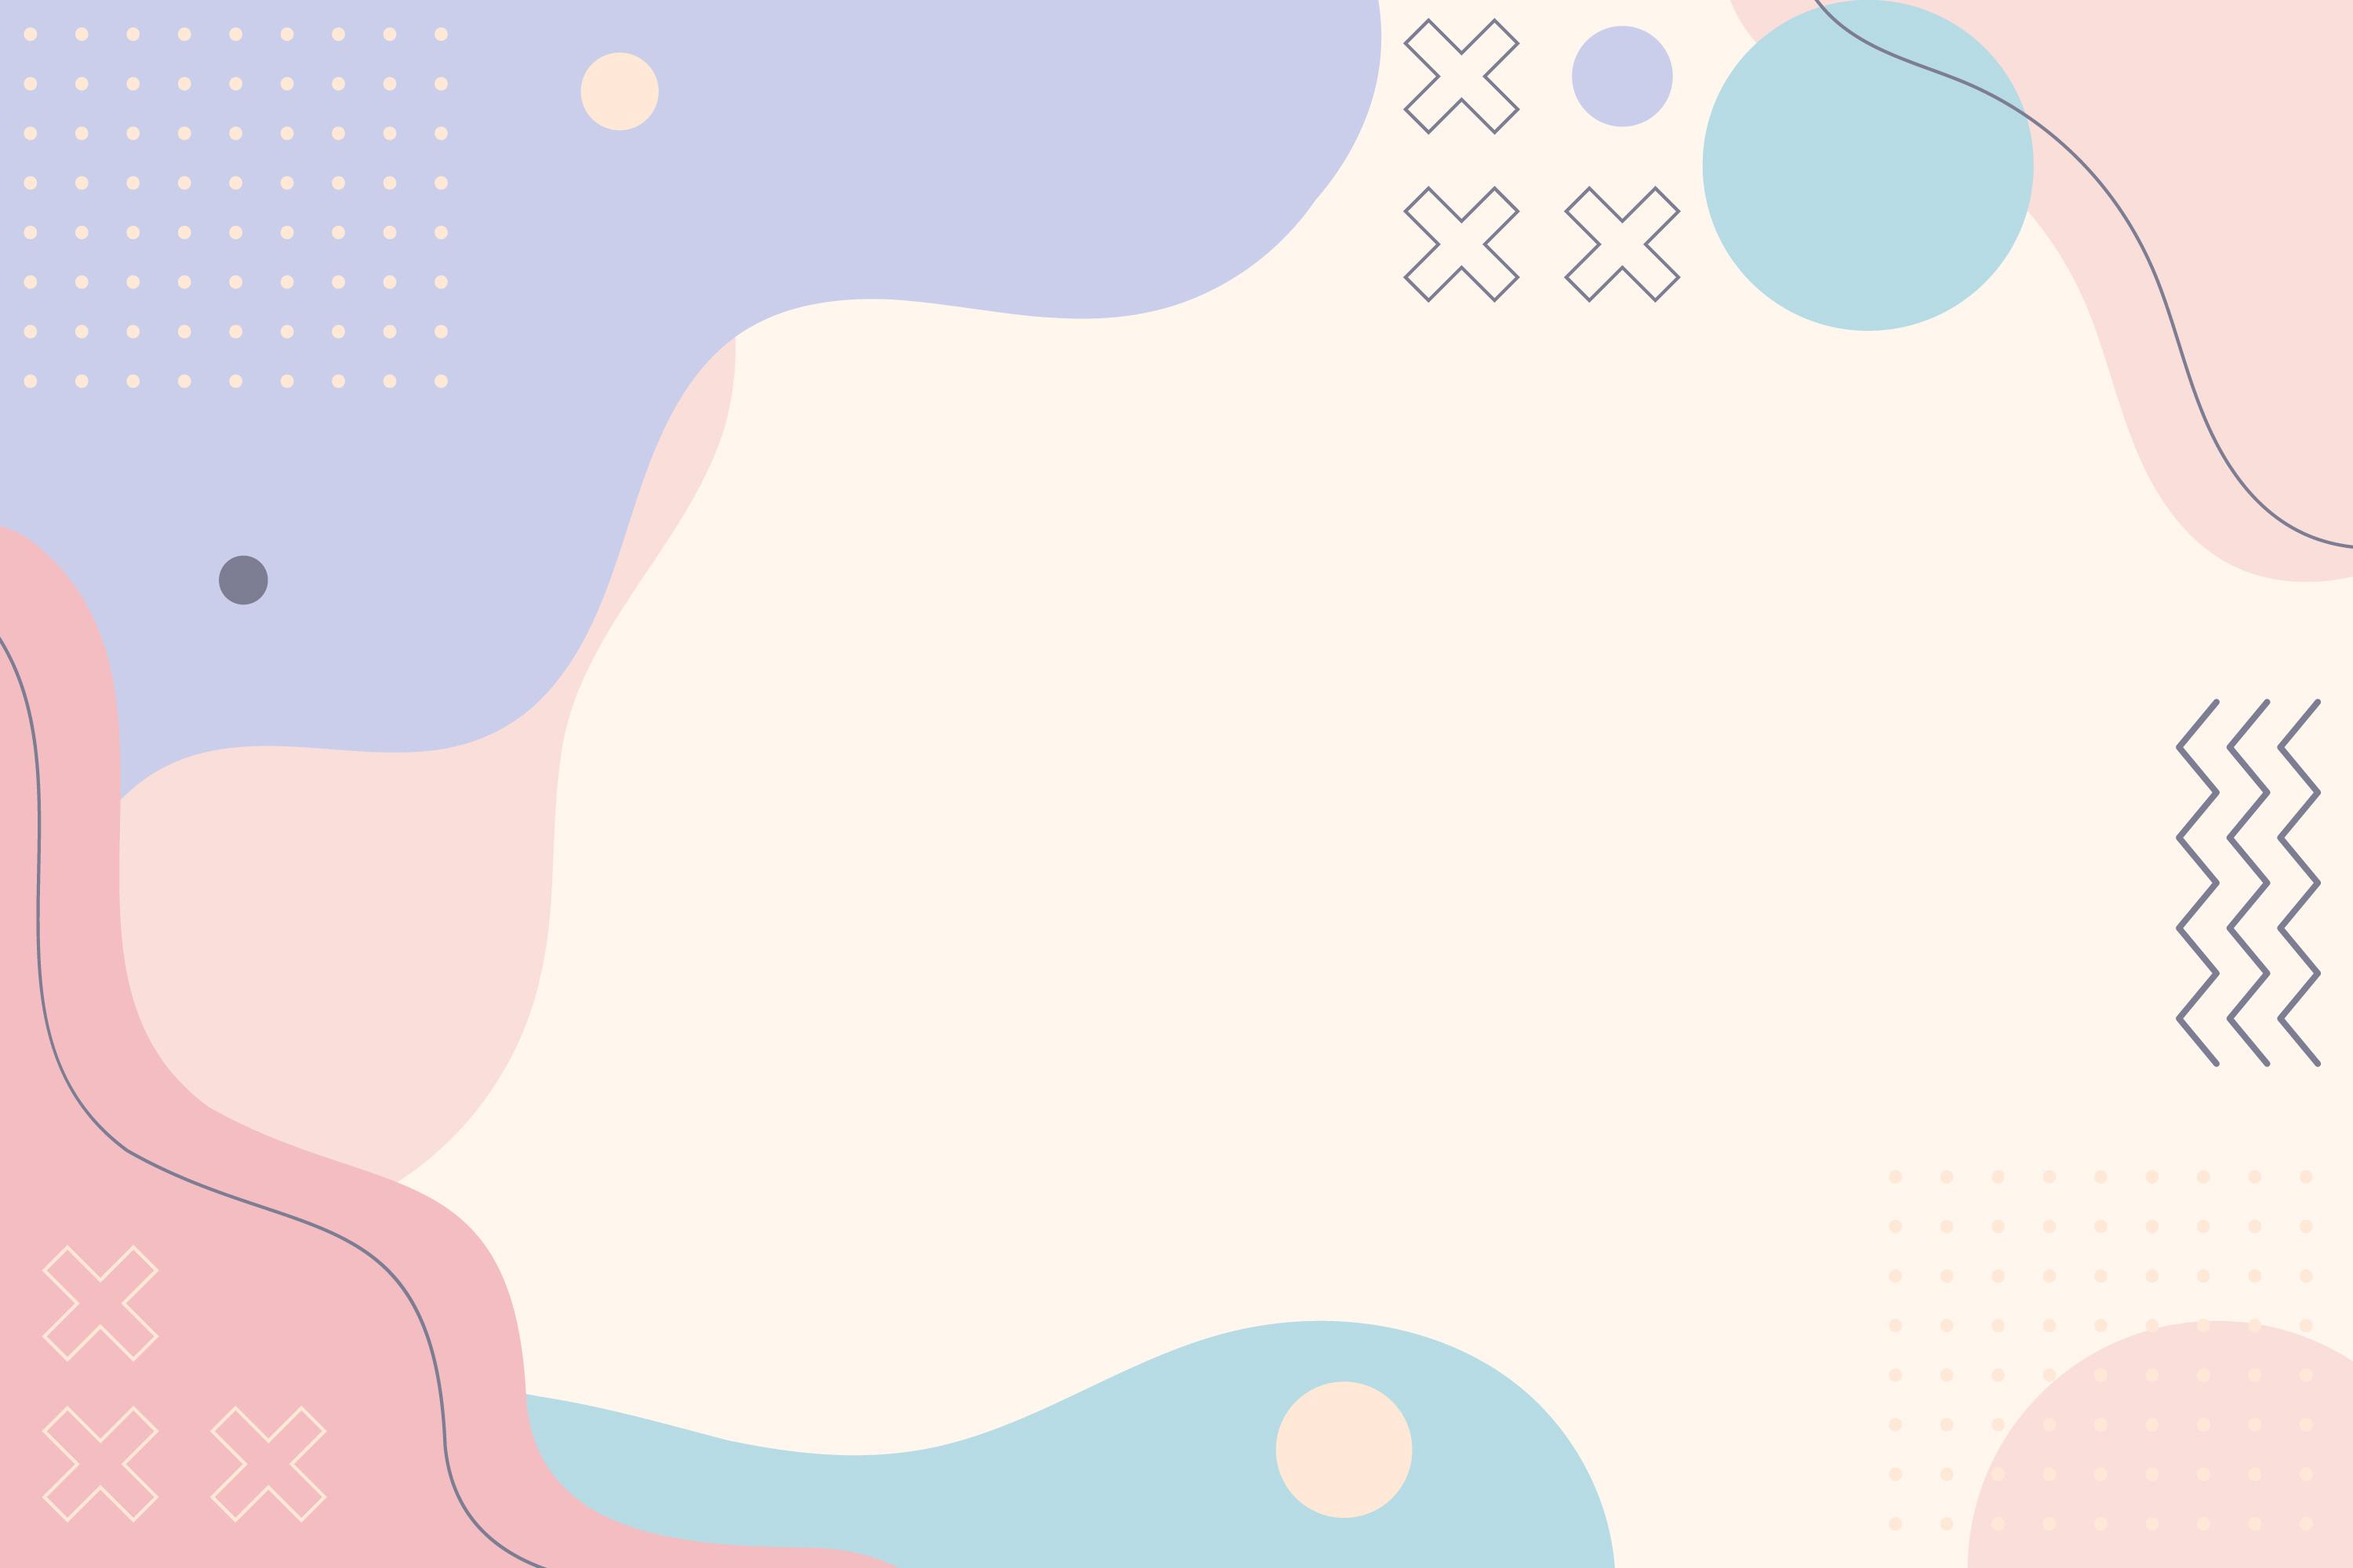
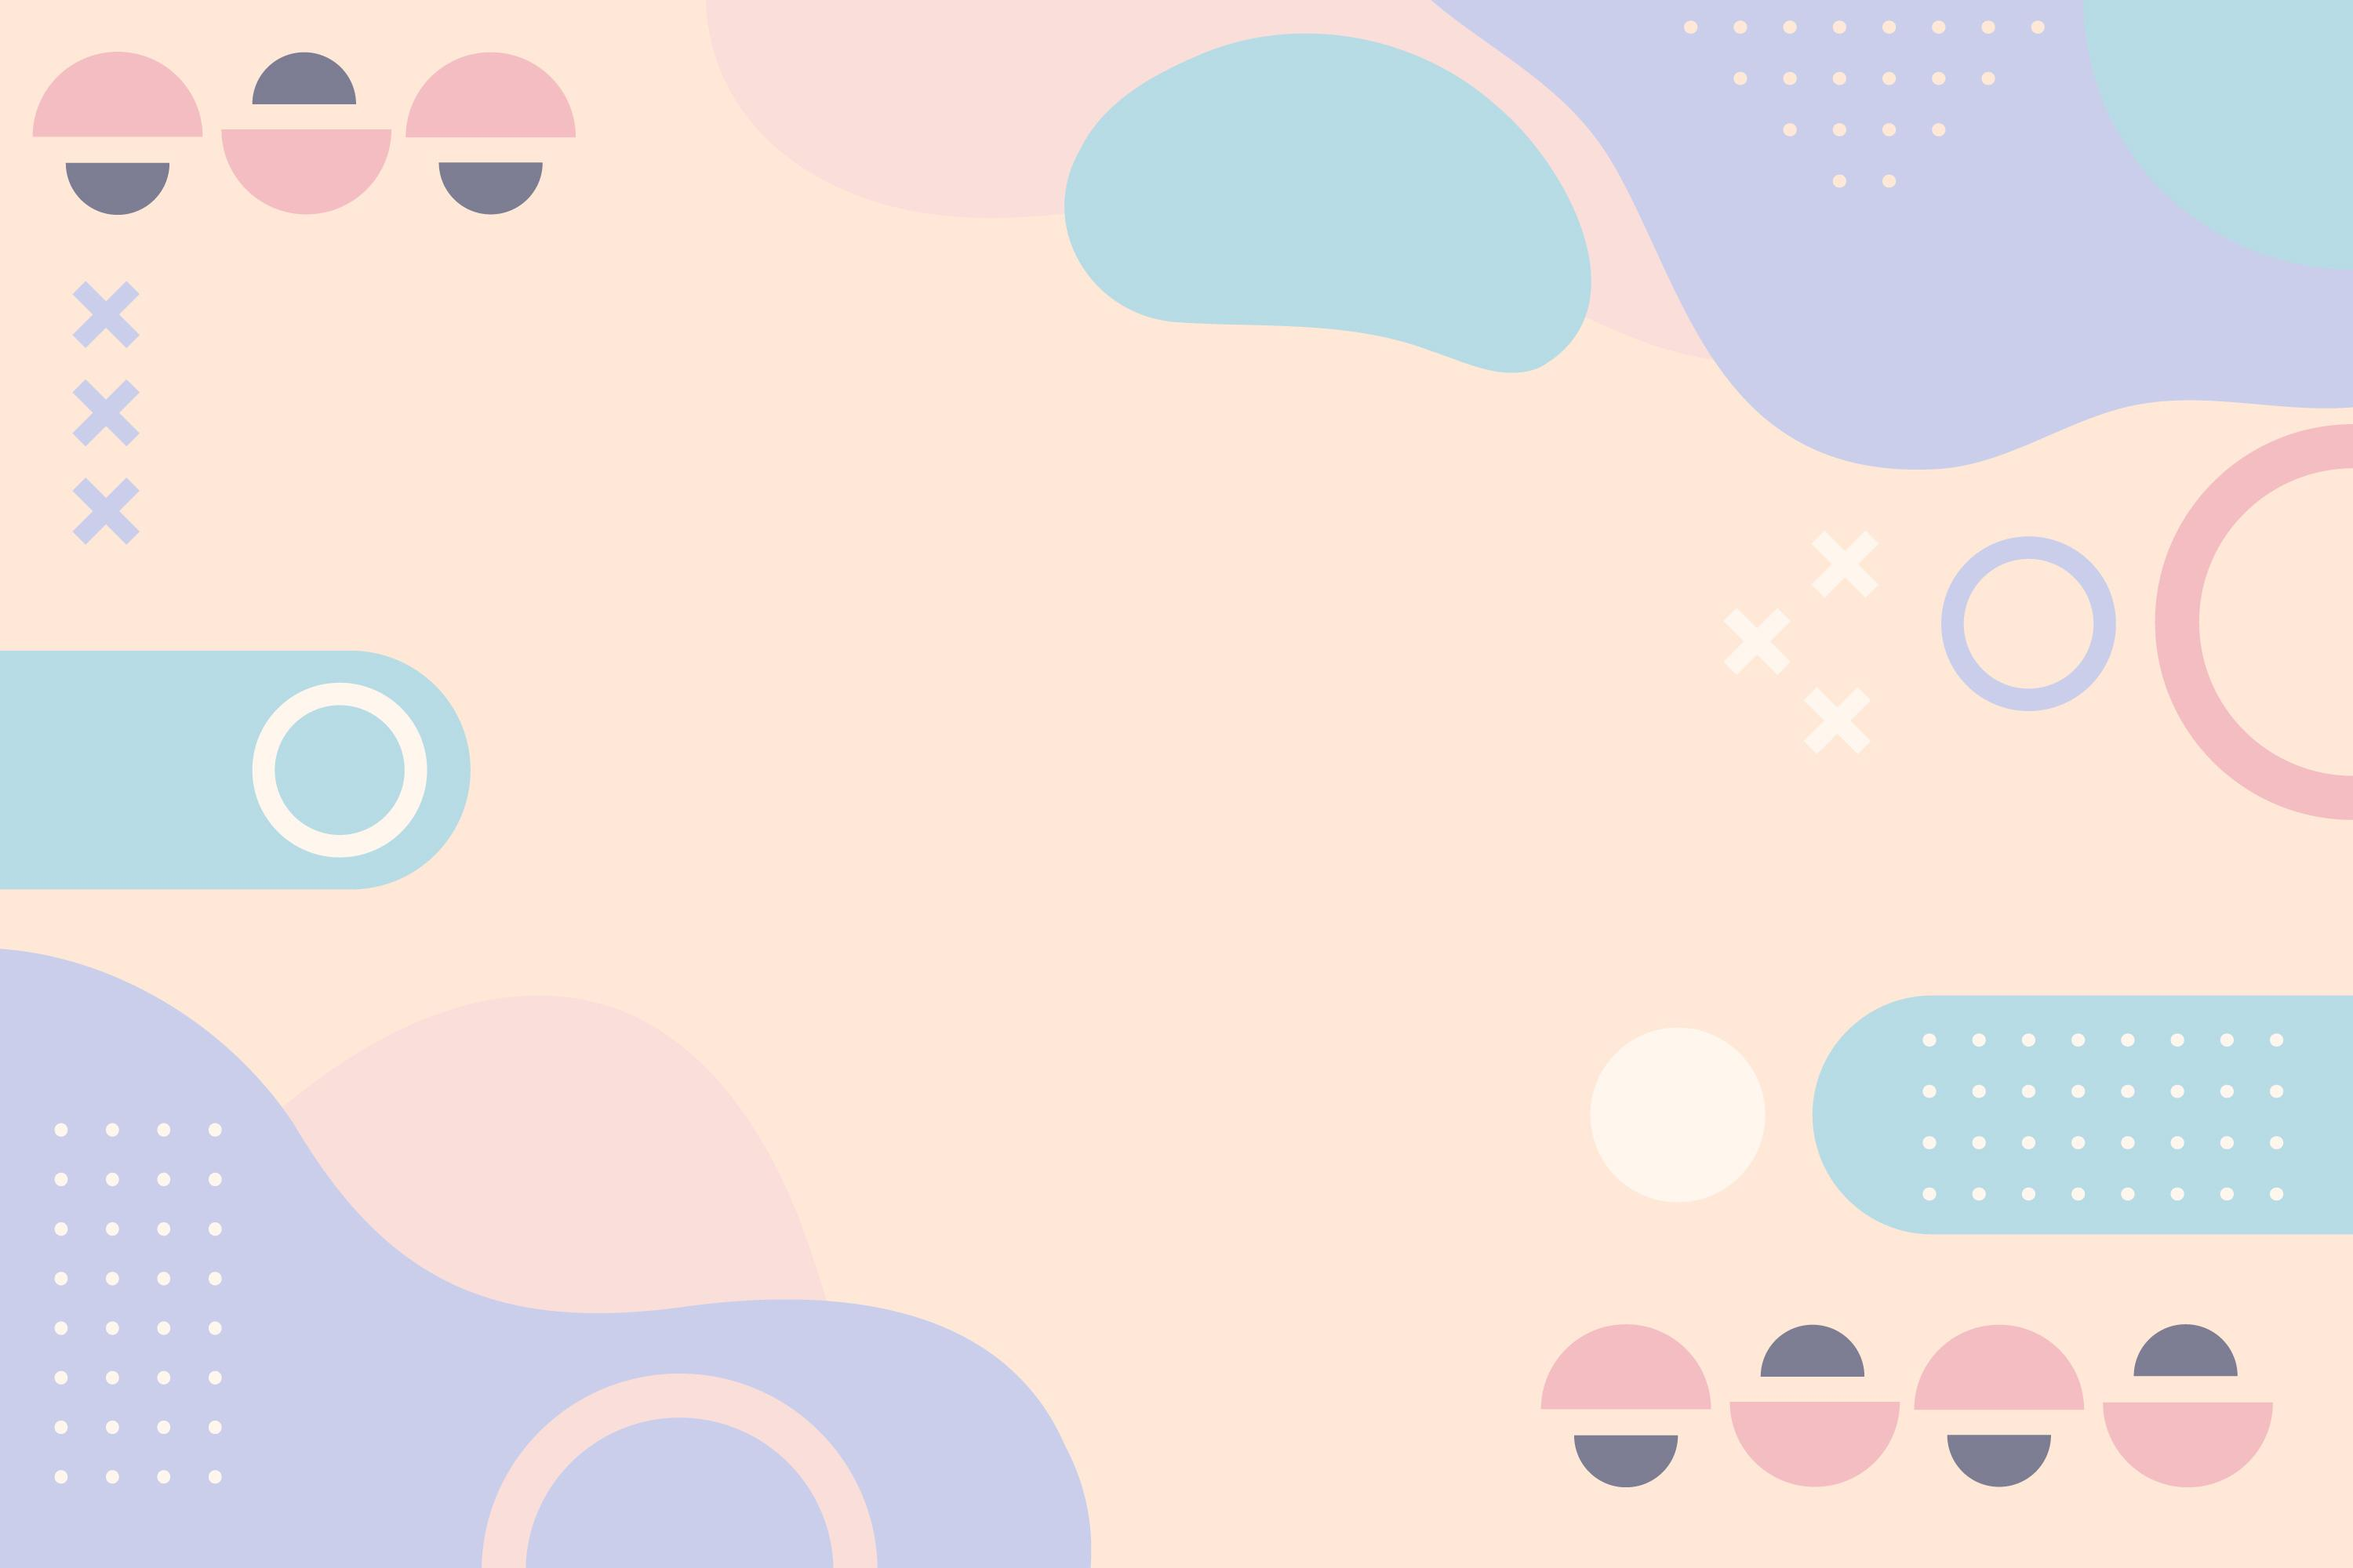
배경 이미지 수정

diff --git a/src/background.js b/src/background.js
@@ -1,4 +1,4 @@
-const images = ['0.jpg', '1.jpg', '2.jpg', '3.jpg', '4.jpg', '5.jpg', '6.jpg'];
+const images = ['0.jpg', '1.jpg', '2.jpg', '3.jpg', '4.jpg', '5.jpg'];
 const image = images[Math.floor(Math.random() * images.length)];
 
 document.body.style.backgroundImage = `url('../image/${image}')`;
